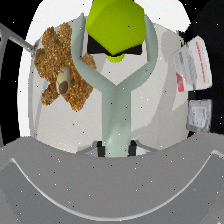
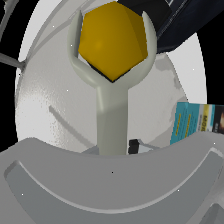
make distractors loading more sensitive

diff --git a/WrenchFisheyeEnv.py b/WrenchFisheyeEnv.py
@@ -96,8 +96,9 @@ class WrenchEnv(gym.Env):
             env_mesh_path= "./data/background/repaired_table/tabletop.obj",
             manipulated_obj_path= "./data/objects/screw/screw.obj",
             manipulated_obj_collision_path = "./data/objects/screw/screw_collision_asset.obj",
+            wrench_mesh_path = "data/objects/wrench/wrench_v2/wrench_attached_v2.obj",
             clipper_obj_path   = "data/objects/clipper/clipper.obj",
-            initial_grasp_path = "data/objects/wrench/wrench_engage.yaml",
+            initial_grasp_path = "data/objects/wrench/wrench_v2/wrench_engage.yaml",
             if_FPSA = False,
             fpsa_aug_root = "./data/objects/bracket/fpsa_aug_outputs",
             fpsa_include_base = True,
@@ -114,14 +115,17 @@ class WrenchEnv(gym.Env):
             randomize_wrenchpose = True,
             wrench_xyz_jitter = 0.01,
             wrench_y_euler_jitter= 0.00,
-            randomize_objpose  = True,
-            obj_x_jit    = 0.06,
+            randomize_objpose  = False,
+            obj_x_jit    = 0.12,
             obj_y_jit    = 0.1,
             obj_z_jit    = 0.05,
             obj_z_eul_jit = 0.0,
             randomize_campose = True,
             cam_xyz_jit  = 0.01,
             cam_eul_jit  = 0.005,
+            randomize_fisheye_cam = True,
+            fisheye_eyz_jit = 0.005,
+            fisheye_eul_jit = 0.002,
             randomize_image_noise= True,
             randomize_object_color = True,
             object_color_mode = "bounded",  # "bounded" or "recolor"
@@ -132,8 +136,9 @@ class WrenchEnv(gym.Env):
             randomize_distractors= True,
             distractor_root= "/mnt/storage/GoogleScannedObjects",
             distractor_num_range= (0, 5),
-            distractor_target_size_range= (0.06, 0.4),
-            distractor_workspace = ((-0.2, 0.8), (-0.72, 0.42)),
+            distractor_target_size_range= (0.2, 0.5),
+            distractor_workspace = ((-0.2, 1.3), (-0.72, 0.42)),
+            distractor_clearance = 0.04,
             # at least 10 pixel of the target object
             distractor_min_target_mask_pixels= 10,
         )

diff --git a/Wrenchdemo.py b/Wrenchdemo.py
@@ -18,7 +18,7 @@ timeStep=1./120.
 p.setTimeStep(timeStep)
 p.setGravity(0,0,-9.8)
 
-Sim = WrenchSim(p, offset=[0, 0, 0], control_dt = timeStep, seed = 85)
+Sim = WrenchSim(p, offset=[0, 0, 0], control_dt = timeStep, seed = 156)
 
 Sim.make_scene(
     env_mesh_path= "./data/background/repaired_table/tabletop.obj",
@@ -64,9 +64,10 @@ Sim.make_scene(
     randomize_distractors= True,
     distractor_root= "/mnt/storage/GoogleScannedObjects",
     distractor_num_range= (0, 5),
-    distractor_target_size_range= (0.2, 0.5),
+    distractor_target_size_range= (0.1, 0.5),
     distractor_workspace = ((-0.2, 1.3), (-0.72, 0.42)),
-    distractor_clearance = 0.04,
+    distractor_clearance = 0.07,
+    distractor_path_clearance = 0.07,
     # at least 10 pixel of the target object
     distractor_min_target_mask_pixels= 10,
     )

diff --git a/MP_collectWrenchdata_fisheye.py b/MP_collectWrenchdata_fisheye.py
@@ -206,12 +206,13 @@ def collect_episode_in_worker(
         randomize_distractors= True,
         distractor_root= "/mnt/storage/GoogleScannedObjects",
         distractor_num_range= (0, 5),
-        distractor_target_size_range= (0.2, 0.5),
+        distractor_target_size_range= (0.1, 0.5),
         distractor_workspace = ((-0.2, 1.3), (-0.72, 0.42)),
-        distractor_clearance = 0.04,
+        distractor_clearance = 0.07,
+        distractor_path_clearance = 0.07,
         # at least 10 pixel of the target object
         distractor_min_target_mask_pixels= 10,
-        )
+    )
     sim.enable_high_quality_rendering()
 
     try:

diff --git a/WrenchSim_equidistant_eye.py b/WrenchSim_equidistant_eye.py
@@ -764,7 +764,7 @@ class WrenchSim(object):
             engage_pos,
             engage_orn,
             local_axis=np.array([1.0, 0.0, 0.0], dtype=float),
-            distance=-self.safe_approach,
+            distance=-(self.safe_approach + 0.05),
         )
 
         fasten_orn = self.rotate_quat_about_local_z(
